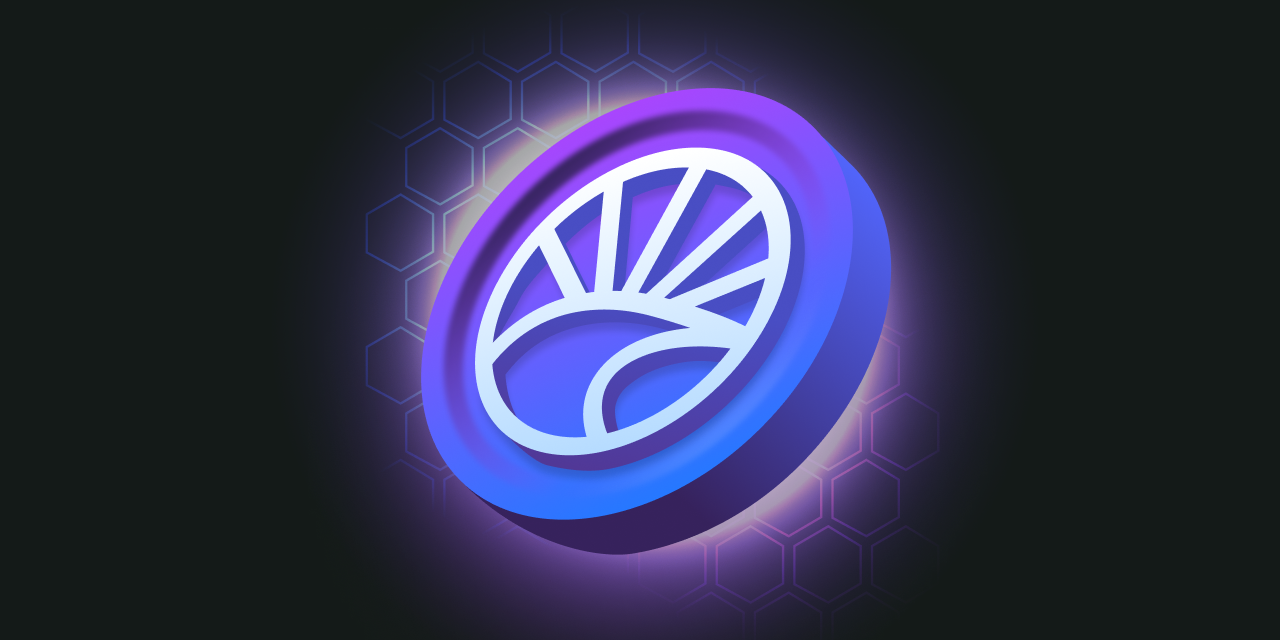
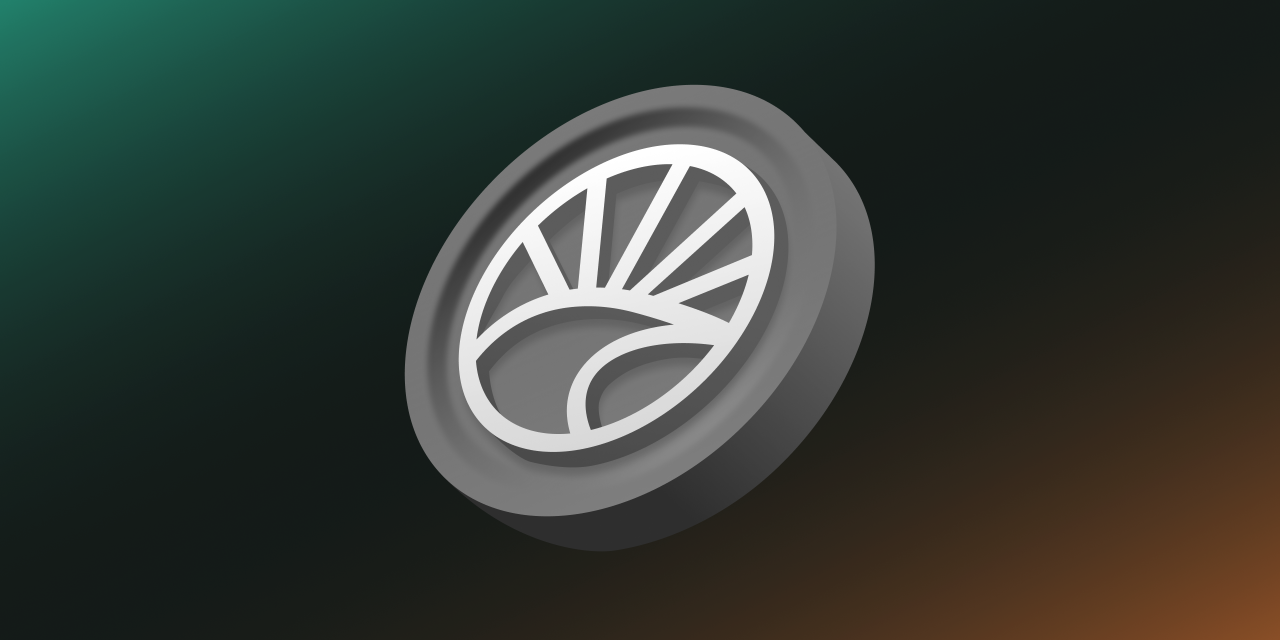
image and content updtes

diff --git a/src/posts/camino-101-what-you-should-know-about-camino-network.html b/src/posts/camino-101-what-you-should-know-about-camino-network.html
@@ -10,8 +10,6 @@ authorname: Pablo Castillo
 
 <div class="max-w-screen-lg px-8 md:px-4 mx-auto py-6 md:py-16 prose lg:prose-lg">
 
-    <img class="rounded-xl" src="/img/camino101-article.png" alt="">
-
     <p>
         Camino Network is a blockchain. Look at it as a B2B version of the Internet, tailored specifically for the travel industry. Everything in this ecosystem serves the needs of travel-related companies. We call it the web3 travel ecosystem. It operates on secure, shared, and unified infrastructure where: 
     </p>
